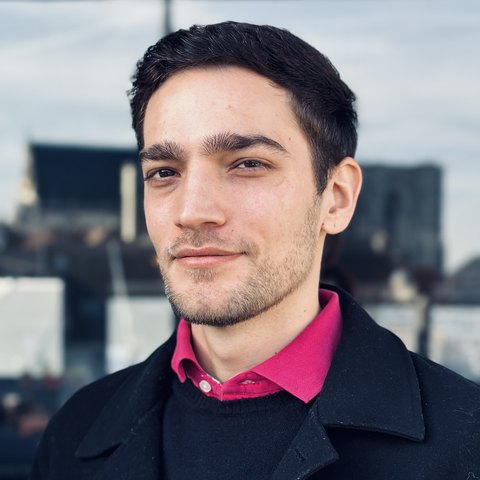
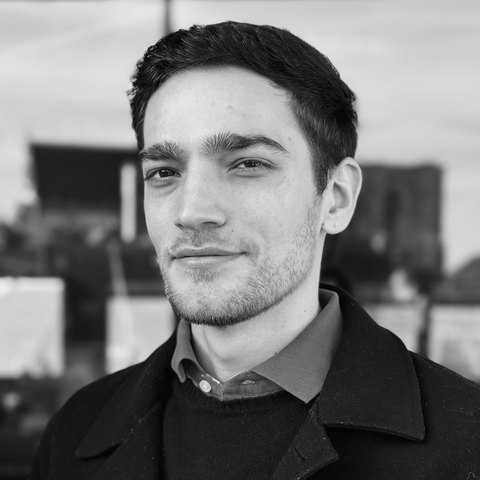
Put every portrait in black and white, and link Annelies to SEM-BEAT
The team grid draws on studio headshots, phone snaps and scans shot under
whatever light was going. Greyscale was already available behind --greyscale
but had never been used, so five portraits were black and white and fifteen
were not, which read as an accident rather than a choice. It is now the default
and --colour is the opt-out.

Two things had to change for that to actually cover everyone. The normalise
pass skips files already at 480px, so the two portraits that never came from
the Drive folder would have stayed in colour; it now drains the colour of an
already-cropped file in place, without re-cropping — re-cropping is what the
skip existed to prevent, since it zooms a little further on every run. And it
leaves a portrait alone once converted, so a re-run is a no-op instead of
re-encoding twenty files into the diff. JPEG rounds chroma on the way back, so
that test carries a small tolerance rather than demanding r == g == b.

Annelies Falter works on SEM-BEAT alongside Alexine, per the project's own team
field, and now has the chip to match.

diff --git a/scripts/prepare_images.py b/scripts/prepare_images.py
@@ -12,6 +12,11 @@ Pass --source to point at a different folder. Missing sources are reported and
 skipped rather than treated as errors, so the script is safe to run on a machine
 that does not have the Drive folder mounted.
 
+Portraits are rendered in greyscale. The sources are a mix of studio headshots,
+phone snaps and scans, shot under whatever light was going; draining the colour
+is what lets them sit in one grid without looking like a ransom note. Pass
+--colour to keep each photo's own colour instead.
+
 Requires: pillow, pillow-heif
 """
 
@@ -21,7 +26,7 @@ import argparse
 import os
 import sys
 
-from PIL import Image, ImageOps
+from PIL import Image, ImageChops, ImageOps
 
 try:
     import pillow_heif
@@ -101,6 +106,23 @@ def square_crop(im: Image.Image, size: int, override=None, greyscale: bool = Fal
     return im
 
 
+def is_greyscale(im: Image.Image) -> bool:
+    """True if an image carries no colour worth draining.
+
+    Used to leave already-converted portraits alone, so re-running the script
+    does not re-encode every file and fill the diff with noise. JPEG stores
+    colour as chroma planes and rounds on the way back, so a portrait saved in
+    greyscale can come back a hair off neutral — hence the tolerance rather
+    than an exact r == g == b test.
+    """
+    if im.mode == "L":
+        return True
+    r, g, b = im.convert("RGB").split()
+    worst = max(ImageChops.difference(r, g).getextrema()[1],
+                ImageChops.difference(g, b).getextrema()[1])
+    return worst <= 4
+
+
 def save_jpeg(im: Image.Image, path: str, quality: int = 86) -> None:
     os.makedirs(os.path.dirname(path), exist_ok=True)
     im.convert("RGB").save(path, "JPEG", quality=quality, optimize=True, progressive=True)
@@ -153,12 +175,21 @@ def do_normalise_existing(greyscale: bool = False) -> "tuple[int, list]":
             continue
         try:
             with Image.open(path) as im:
+                slug = os.path.splitext(name)[0]
                 if im.size == (PORTRAIT_PX, PORTRAIT_PX):
+                    # Already cropped. The only thing left that can be out of
+                    # step is the colour, and draining it needs no crop — so do
+                    # that in place rather than re-cropping, which would zoom in
+                    # a little further on every run.
+                    if not greyscale or is_greyscale(im):
+                        continue
+                    save_jpeg(ImageOps.grayscale(im).convert("RGB"), path)
+                    done += 1
+                    print(f"  greyscale {slug}.jpg")
                     continue
                 if min(im.size) < 100:
                     problems.append(f"{name} (too small: {im.size[0]}x{im.size[1]})")
                     continue
-                slug = os.path.splitext(name)[0]
                 before = im.size
                 cropped = square_crop(im, PORTRAIT_PX, CROP_OVERRIDES.get(slug), greyscale)
             out = os.path.join(TEAM, slug + ".jpg")
@@ -241,16 +272,19 @@ def main() -> int:
     ap = argparse.ArgumentParser(description=__doc__)
     ap.add_argument("--source", default=DEFAULT_SOURCE, help="folder holding the original images")
     ap.add_argument(
-        "--greyscale",
+        "--colour",
+        "--color",
+        dest="colour",
         action="store_true",
-        help="render all portraits in greyscale. The source photos are a mix of colour and "
-        "black-and-white, which reads as inconsistent on the team page; this makes them uniform.",
+        help="keep each portrait's own colour. The default is greyscale: the sources are a mix "
+        "of colour and black-and-white, which reads as inconsistent on the team page.",
     )
     args = ap.parse_args()
+    greyscale = not args.colour
 
     # Photos dropped straight into assets/images/team/ are normalised whether or
     # not the Drive folder is reachable, so this works on any machine.
-    n_local, problems_local = do_normalise_existing(args.greyscale)
+    n_local, problems_local = do_normalise_existing(greyscale)
 
     if not os.path.isdir(args.source):
         if n_local:
@@ -263,7 +297,7 @@ def main() -> int:
         return 0
 
     print(f"Source: {args.source}\n")
-    n, missing = do_portraits(args.source, args.greyscale)
+    n, missing = do_portraits(args.source, greyscale)
     missing += do_logo(args.source)
     missing += do_group(args.source)
 

diff --git a/README.md b/README.md
@@ -294,8 +294,9 @@ python scripts/prepare_images.py
 That crops it square, resizes to 480px and writes it to `assets/images/team/`. Sources are never
 committed — some are over 20 MB. If the automatic crop misses the face (full-length shots,
 mainly), add a `(centre_x, centre_y, side)` entry to `CROP_OVERRIDES` instead of editing the
-photo. `--greyscale` renders all portraits in black and white, if you would rather they were
-uniform than true to the originals.
+photo. Portraits are rendered in black and white, which is what lets photos shot in wildly
+different light sit in one grid; pass `--colour` if you would rather they were true to the
+originals.
 
 ### Adding a publication
 
